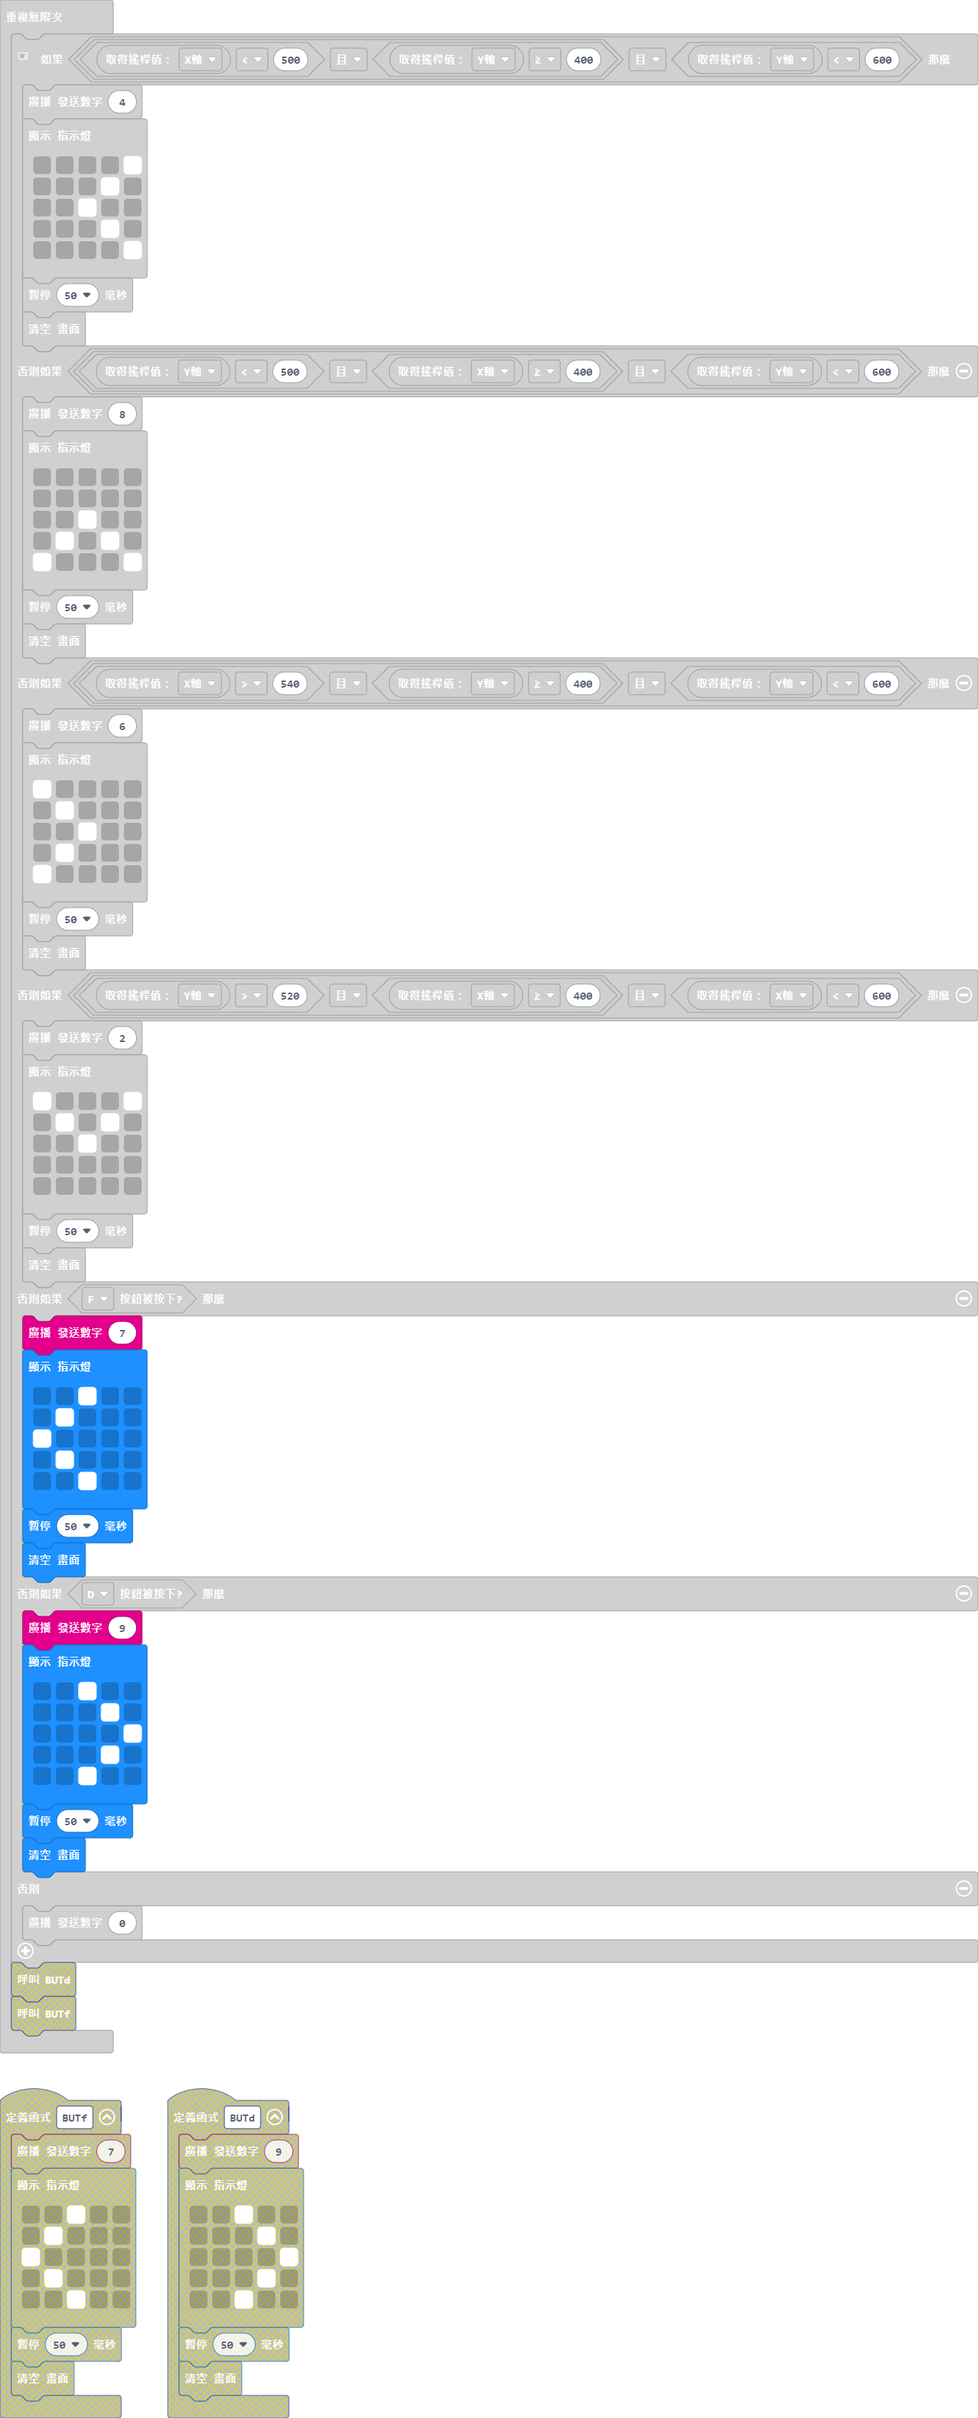
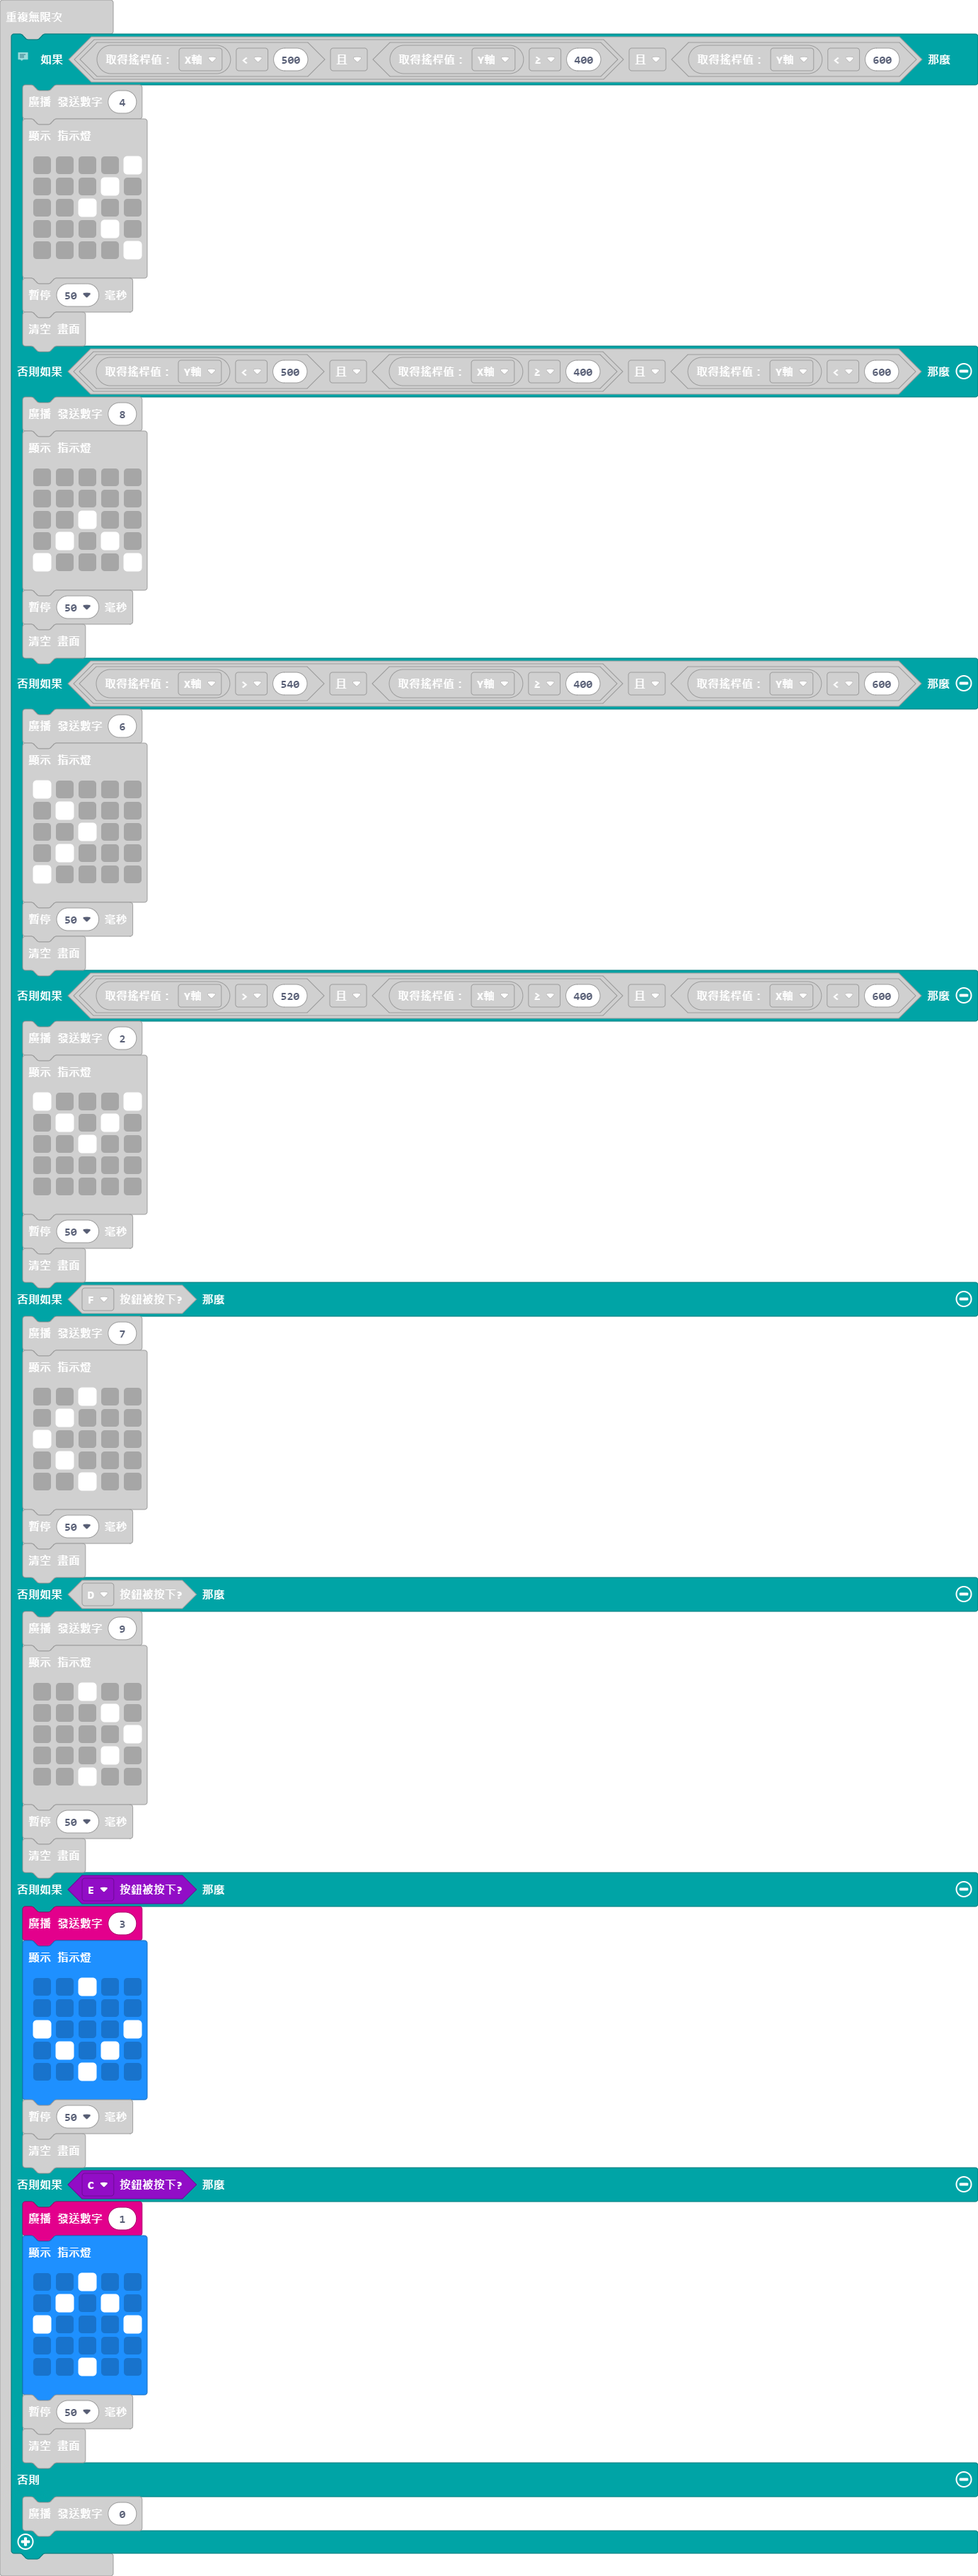
更新 main.blocks, main.ts

diff --git a/main.ts b/main.ts
@@ -1,26 +1,8 @@
 KSB045.onBtnChanged(KSB045.btnName.C, KSB045.pushType.down, function () {
-    radio.sendNumber(3)
-    basic.showLeds(`
-        . . . . .
-        . . . . .
-        # . . . #
-        . # . # .
-        . . # . .
-        `)
-    basic.pause(50)
-    basic.clearScreen()
+	
 })
 KSB045.onBtnChanged(KSB045.btnName.E, KSB045.pushType.down, function () {
-    radio.sendNumber(1)
-    basic.showLeds(`
-        . . # . .
-        . # . # .
-        # . . . #
-        . . . . .
-        . . . . .
-        `)
-    basic.pause(50)
-    basic.clearScreen()
+	
 })
 radio.setGroup(173)
 basic.forever(function () {
@@ -90,6 +72,28 @@ basic.forever(function () {
             . . . # .
             . . . . #
             . . . # .
+            . . # . .
+            `)
+        basic.pause(50)
+        basic.clearScreen()
+    } else if (KSB045.getBtnValue(KSB045.btnName.E)) {
+        radio.sendNumber(3)
+        basic.showLeds(`
+            . . # . .
+            . . . . .
+            # . . . #
+            . # . # .
+            . . # . .
+            `)
+        basic.pause(50)
+        basic.clearScreen()
+    } else if (KSB045.getBtnValue(KSB045.btnName.C)) {
+        radio.sendNumber(1)
+        basic.showLeds(`
+            . . # . .
+            . # . # .
+            # . . . #
+            . . . . .
             . . # . .
             `)
         basic.pause(50)
